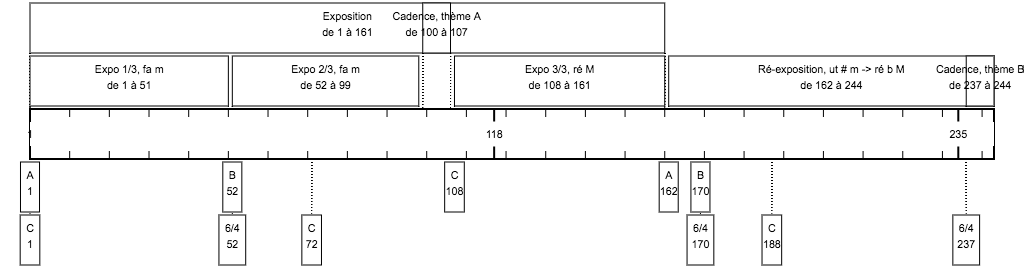
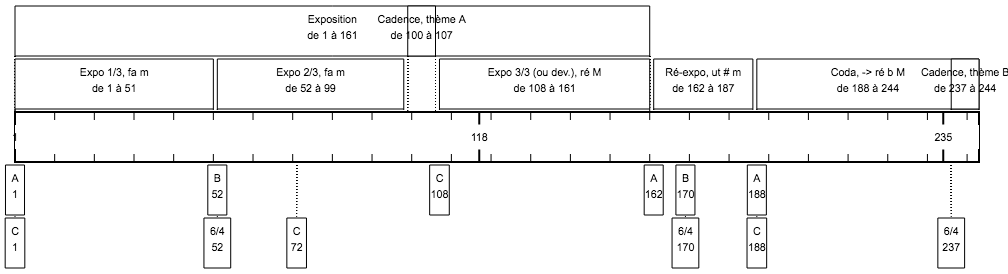
update

diff --git a/sonate.tex b/sonate.tex
@@ -143,30 +143,30 @@ Remarque 2 : On observe une certaine ambiguité entre le binaire et le ternaire.
 
 \section{Analyse et forme}
 
-Comme indiqué précédemment, nous retrouvons la structure traditionnelle d'une sonate à quatre mouvements. Analysons la structure de chacun des mouvements pris comme une entité autonome et vérifions si une structure plus globale se dégage (formes dans la forme).
+Comme indiqué précédemment, nous retrouvons la structure traditionnelle d'une sonate à quatre parties. Analysons la structure de chacun des mouvements et vérifions si une structure plus globale se apparaît (plusieurs formes dans la forme).
 
 \subsubsection*{Le premier mouvement (244 mesures, $\sim$9m30s)}
 
-Le premier mouvement est le plus long et le plus complexe de la sonate. Les 51 premières mesures servent à introduire le thème A dans la tonalité principale de la sonate, c'est-à-dire fa mineur. Les 48 mesures suivantes introduisent le thème B. De façon un peu surprenante, ce thème reste en fa mineur. La raison de cela est qu'il s'agit en simplement d'un thème de transition. La page 5 mène à la petite cadence lisztienne du début de la page 6 dont le but est d'installer la tonalité de ré majeur. Le thème C est alors introduit. Il est développé, conjointement au thème A jusqu'à la grande pédale de la de la page 8. La page 9, mesure 162 est clairement ressentie comme une ré-exposition dans la tonalité de ut$\sharp$ mineur avec la thème A mesure 162, puis le thème B à la mesure 170. Cette ré-exposition se termine à la mesure 236 en ré$\flat$ majeur ($\sim$ut$\sharp$ majeur). Par enharmonie, une deuxième petite cadence lisztienne en ut$\sharp$ mineur prépare le cinquième degré de mi majeur (ton relatif), le ton de mouvement suivant.\\
+Le premier mouvement est le plus long et le plus complexe de la sonate. Les 51 premières mesures servent à introduire le thème A dans la tonalité principale de la sonate, c'est-à-dire \emph{fa} mineur. Les 48 mesures suivantes introduisent le thème B. Celui-ci reste en \emph{fa} mineur car il s'agit simplement d'un \underline{thème de transition}. La page 5 mène à la petite cadence lisztienne (thème A) du début de la page 6 dont le but est d'installer la tonalité de \emph{ré} majeur. Le thème C est alors introduit. Il est développé, conjointement au thème A jusqu'à la grande pédale de la page 8. La page 9, mesure 162 (\emph{Piu animato}) est clairement ressentie comme une ré-exposition dans la tonalité d'ut$\sharp$ mineur sur le thème A, mesure 162, puis le thème B, mesure 170. La coda commence à la mesure 187 au \emph{leggiero} et se termine à la mesure 236 en ré$\flat$ majeur ($\sim$ut$\sharp$ majeur). Par enharmonie, une seconde petite cadence lisztienne (thème B) en ut$\sharp$ mineur prépare le cinquième degré de \emph{mi} majeur (le ton relatif et du mouvement suivant).\\
 
-Ce premier mouvement peut être vu comme une sorte de forme-sonate sans développement où l'exposition, comme la ré-exposition, exploitent suffisamment le matériau pour que l'ensemble reste consistante. La figure \ref{schema-1} résume la structure du premier mouvement.
+Ce premier mouvement est une forme-sonate sans développement. On peut alternativement considérer l'arrivée thrème C comme un développement en \emph{ré} majeur que les thèmes découlent les uns des autres. À ce stade, seule la tonalité d'ut$\sharp$ mineur ne peut être expliquée. L'éclaircissement viendra plus tard. La figure \ref{schema-1} résume la structure du premier mouvement.
 
 \begin{figure}[!ht]
   \begin{bigcenter}
     \includegraphics[width=17.5cm, keepaspectratio]{frise-mvt1.png}
   \end{bigcenter}
-  \caption{\label{schema-1}Schéma du premier mouvement.}
+  \caption{\label{schema-1}Structure du premier mouvement.}
 \end{figure}
 
 \subsubsection*{Le deuxième mouvement (118 mesures, $\sim$8m15s)}
 
-Le deuxième mouvement à une simple forme tripartite A + B + A'. La partie A (A1 + a1) est constituée du thème D en mi majeur sur 24 mesures (A1) puis d'une section non thématique sur une pédale de la (dominante de ré) sur 18 mesures (a1). La partie B est constituée de deux répétitions variées du thème E en ré dorien sur 21 puis 23 mesures. Mesure 87, une petite cadence de 8 mesure, évoquant également le scintillement \emph{La grande porte de Kiev} de Moussorgski, ré-installe la tonalité de mi majeur. Enfin, la partie A' (A2 + a2) est constituée à nouveau du thème D en mi majeur sur 8 mesures (A2) et d'une partie conclusive qui aboutie sur la dominante (demie-cadence) de sol$\sharp$ m. La figure \ref{schema-2} résume la structure du deuxième mouvement.
+Le deuxième mouvement à une simple forme tripartite A B A'. La partie A=(A1 a1) est constituée du thème D en mi majeur sur 24 mesures (A1) puis d'une section non thématique sur une pédale de la (dominante de ré) sur 18 mesures (a1). La partie B est constituée de deux répétitions variées du thème E en ré dorien sur 21 puis 23 mesures. Mesure 87, une petite cadence de 8 mesure, évoquant également le scintillement \emph{La grande porte de Kiev} de Moussorgski, ré-installe la tonalité de mi majeur. Enfin, la partie A'=(A2 a2) est constituée à nouveau du thème D en mi majeur sur 8 mesures (A2) et d'une partie conclusive qui aboutie sur la dominante (demie-cadence) de sol$\sharp$ m. La figure \ref{schema-2} résume la structure du deuxième mouvement.
 
 \begin{figure}[!ht]
   \begin{bigcenter}
     \includegraphics[width=17.5cm, keepaspectratio]{frise-mvt2.png}
   \end{bigcenter}
-  \caption{\label{schema-2}Schéma du deuxième mouvement.}
+  \caption{\label{schema-2}Structure du deuxième mouvement.}
 \end{figure}
 
 \subsubsection*{Le troisième mouvement (92 mesures, $\sim$2m8s)}
@@ -179,7 +179,7 @@ La forme est la suivante : introduction évoquant le thème B (8 mesures, sol$\s
   \begin{bigcenter}
     \includegraphics[width=17.5cm, keepaspectratio]{frise-mvt3.png}
   \end{bigcenter}
-  \caption{\label{schema-3}Schéma du troisième mouvement.}
+  \caption{\label{schema-3}Structure du troisième mouvement.}
 \end{figure}
 
 \subsubsection*{Le quatrième mouvement (144 mesures, $\sim$7m10s)}
@@ -206,7 +206,7 @@ La figure \ref{schema-4} résume la structure du quatrième mouvement.
   \begin{bigcenter}
     \includegraphics[width=17.5cm, keepaspectratio]{frise-mvt4.png}
   \end{bigcenter}
-  \caption{\label{schema-4}Schéma du quatrième mouvement.}
+  \caption{\label{schema-4}Structure du quatrième mouvement.}
 \end{figure}
 
 \begin{figure}[!p]
@@ -253,30 +253,30 @@ Il existe donc deux niveaux de lecture, soit on considère un sonate en quatre m
   \begin{bigcenter}
     \vspace{-1cm}
     \rotatebox{90} {
-\begin{tabular}{|l|l|l|l|l|l|l|l|l|l|l|l|l|l|}
+\begin{tabular}{|l|l|l|l|l|l|l|l|l|l|l|l|l|l|l|}
  \hline
-   Mesures & 1 & 52 & 108 & 162 & 170 & 245 & 288 & 339 & 363 & 455 & 501 & 537 & 551 \\
- \hline
- \hline
-   1 mvts & \multicolumn{13}{|l|}{Sonate cyclique}\\
- \hline
-          & \multicolumn{3}{|l|}{Exposition} & \multicolumn{6}{l|}{Développement} & \multicolumn{3}{l|}{Ré-exposition} & Coda\\
- \hline
-   Thème & A & B & C & \multicolumn{6}{l|}{} & A & C & B & E\\
+   Mesures & 1 & 52 & 108 & 162 & 170 & 188 & 245 & 288 & 339 & 363 & 455 & 501 & 537 & 551 \\
  \hline
  \hline
-   4 mvts & \multicolumn{5}{|l|}{Forme-sonate sans dév.} & \multicolumn{3}{|l|}{Forme tripartite ABA'} & variations & \multicolumn{4}{|l|}{Final}\\
+   1 mvts & \multicolumn{14}{|l|}{Sonate cyclique}\\
  \hline
-          & \multicolumn{3}{|l|}{Exposition} & \multicolumn{2}{l|}{Ré-Exposition} & \multicolumn{3}{l|}{Mvt lent} & Scherzando & \multicolumn{4}{l|}{}\\
+          & \multicolumn{3}{|l|}{Exposition} & \multicolumn{7}{l|}{Développement} & \multicolumn{3}{l|}{Ré-exposition} & Coda\\
  \hline
-  Thèmes & A & B & C & A & B & D & E & D & B & A & C & B & D, E\\
+   Thème & A & B & C & \multicolumn{7}{l|}{} & A & C & B & E\\
  \hline
  \hline
-  Signatures & C & \multicolumn{4}{|l|}{6/4, C} & 12/8 & C & 12/8 & 6/8 & \multicolumn{3}{|l|}{C} & 12/8, C\\
+   4 mvts & \multicolumn{6}{|l|}{Forme-sonate} & \multicolumn{3}{|l|}{Forme tripartite ABA'} & variations & \multicolumn{4}{|l|}{Final}\\
  \hline
-  Tempos & \multicolumn{5}{|l|}{rapide} & \multicolumn{3}{|l|}{lent} & rapide & \multicolumn{3}{|l|}{rapide} & rapide/lent\\
+          & \multicolumn{3}{|l|}{Exposition} & \multicolumn{2}{l|}{Ré-Exposition} & Coda & \multicolumn{3}{l|}{Mvt lent} & Scherzando & \multicolumn{4}{l|}{}\\
  \hline
-  Tons & fa m & fa m & ré M & \multicolumn{2}{|l|}{do$\sharp$ m} & mi M & ré m & mi M & sol$\sharp$ m & fa m & ré$\flat$ M & \multicolumn{2}{|l|}{fa M}\\
+  Thèmes & A & B & C & A & B & A & D & E & D & B & A & C & B & D, E\\
+ \hline
+ \hline
+  Signatures & C & \multicolumn{4}{|l|}{6/4} & C & 12/8 & C & 12/8 & 6/8 & \multicolumn{3}{|l|}{C} & 12/8, C\\
+ \hline
+  Tempos & \multicolumn{6}{|l|}{rapide} & \multicolumn{3}{|l|}{lent} & rapide & \multicolumn{3}{|l|}{rapide} & rapide/lent\\
+ \hline
+  Tons & fa m & fa m & ré M & \multicolumn{2}{|l|}{do$\sharp$ m} & $\to$ ré$\flat$ M & mi M & ré m & mi M & sol$\sharp$ m & fa m & ré$\flat$ M & \multicolumn{2}{|l|}{fa M}\\
  \hline
 \end{tabular}
     }
